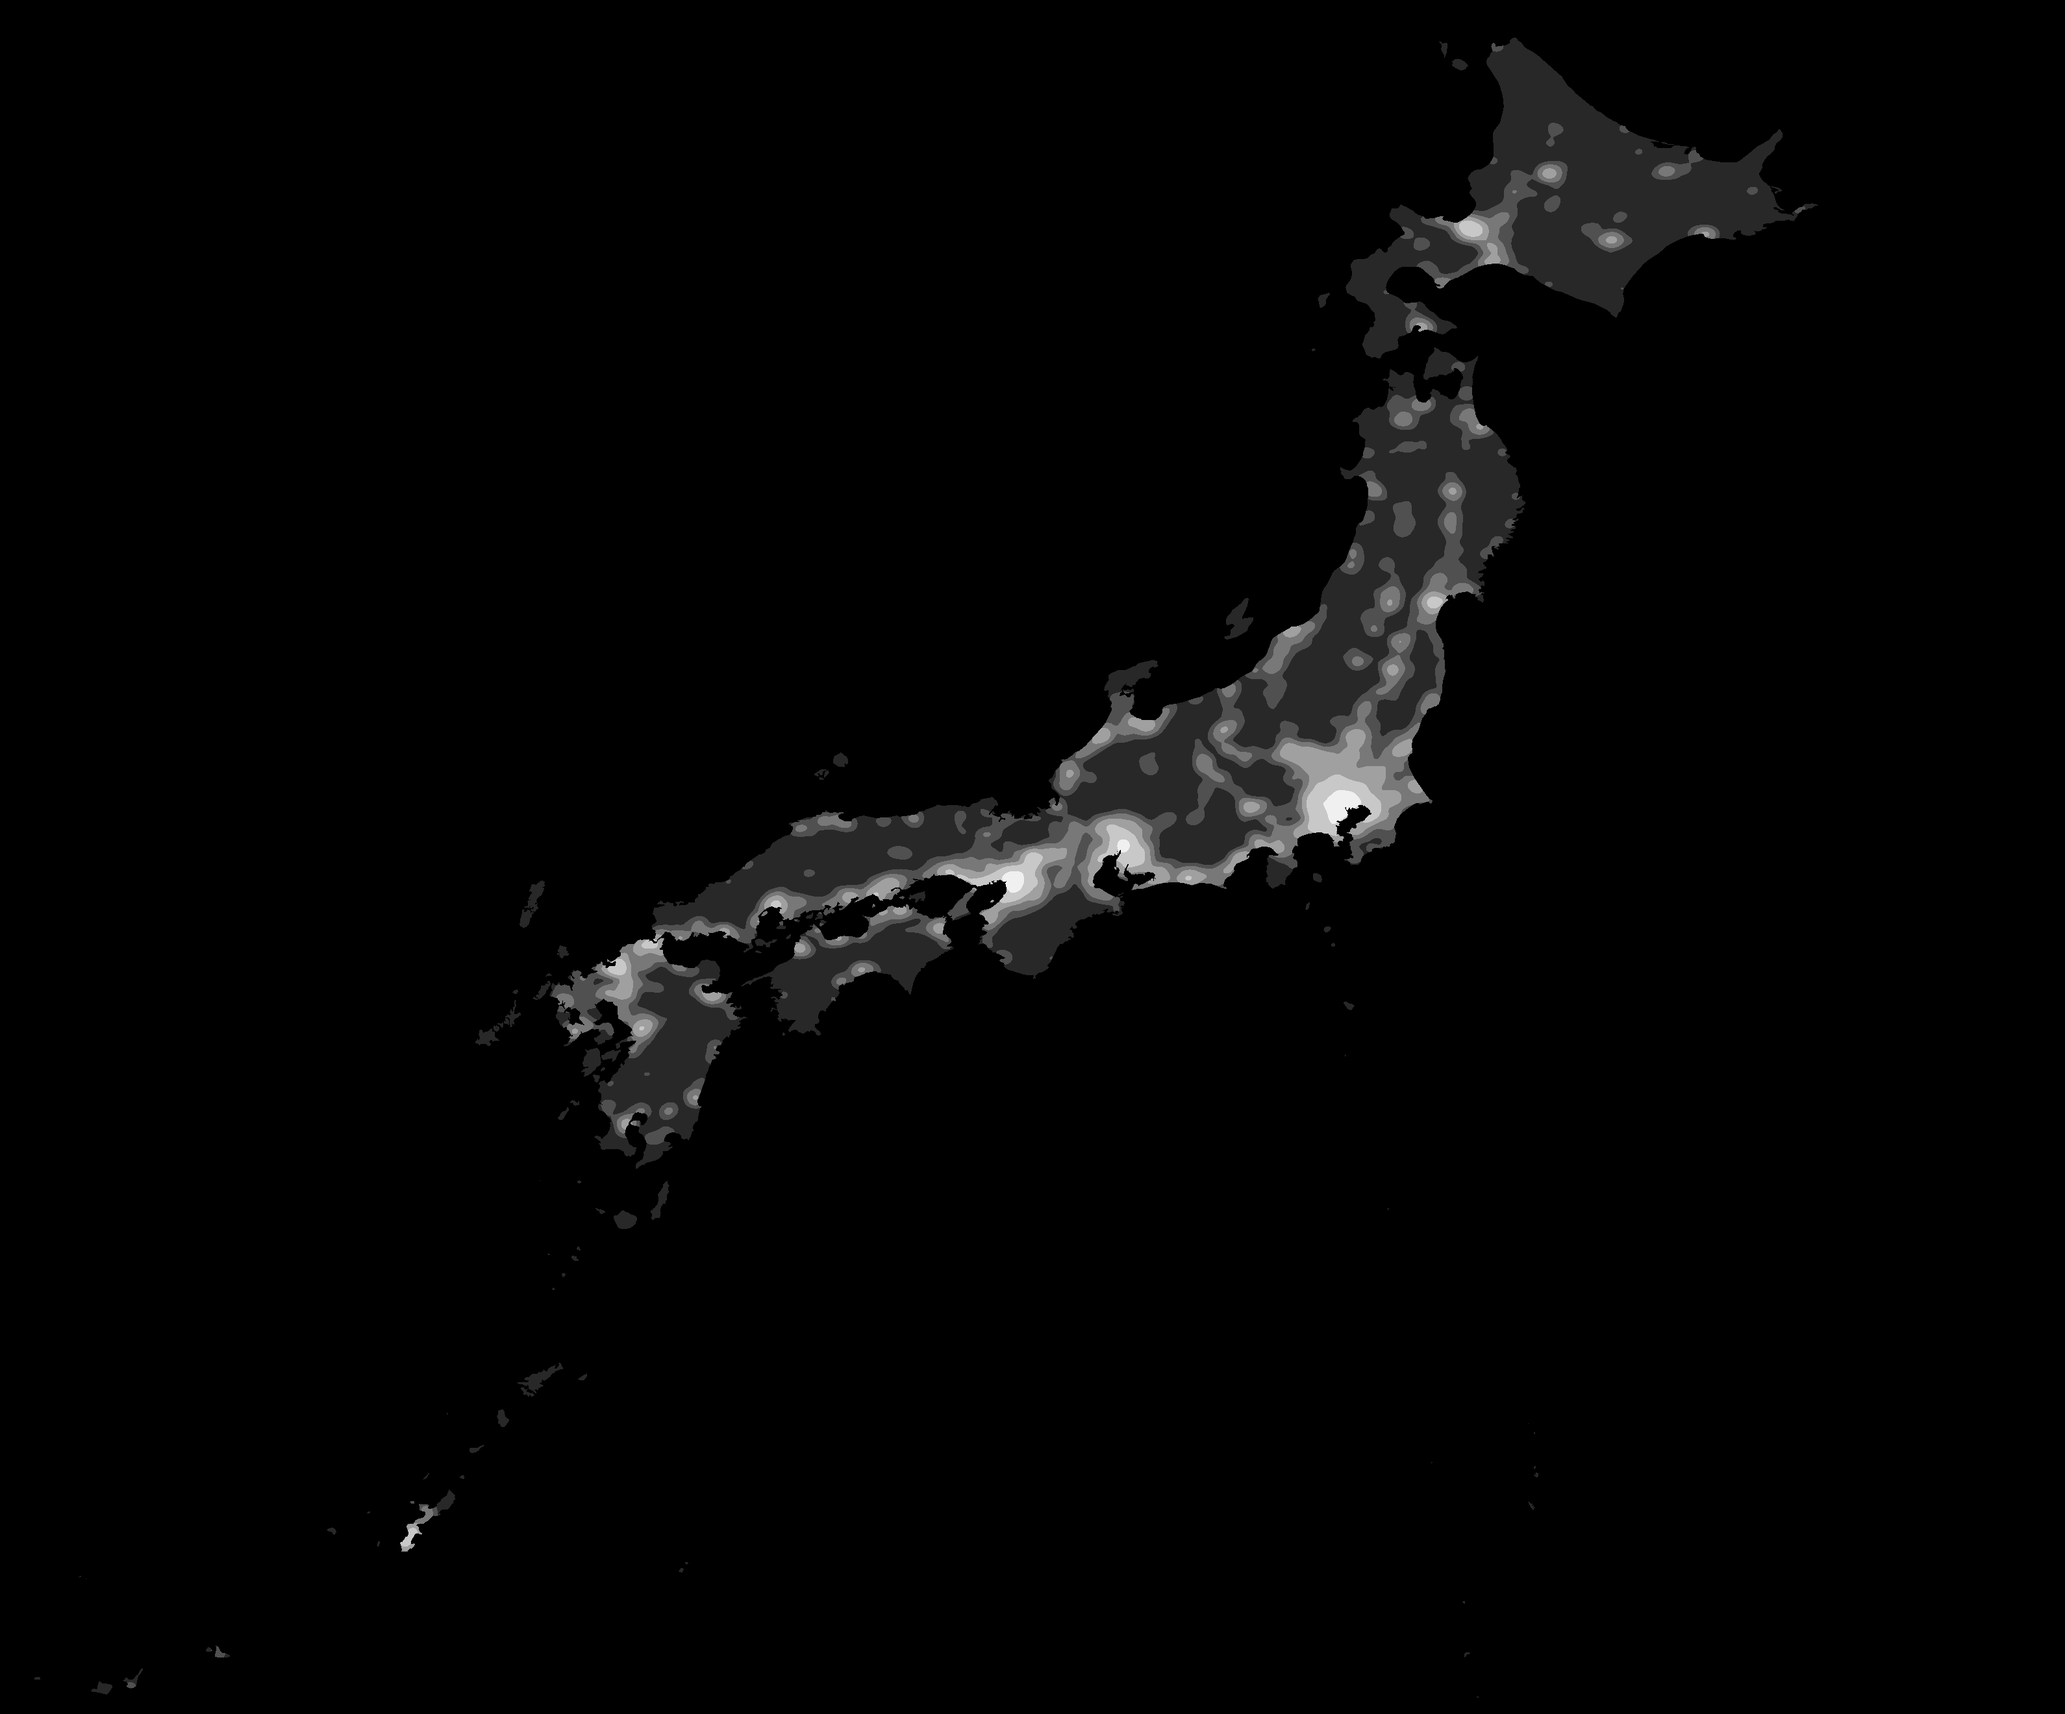
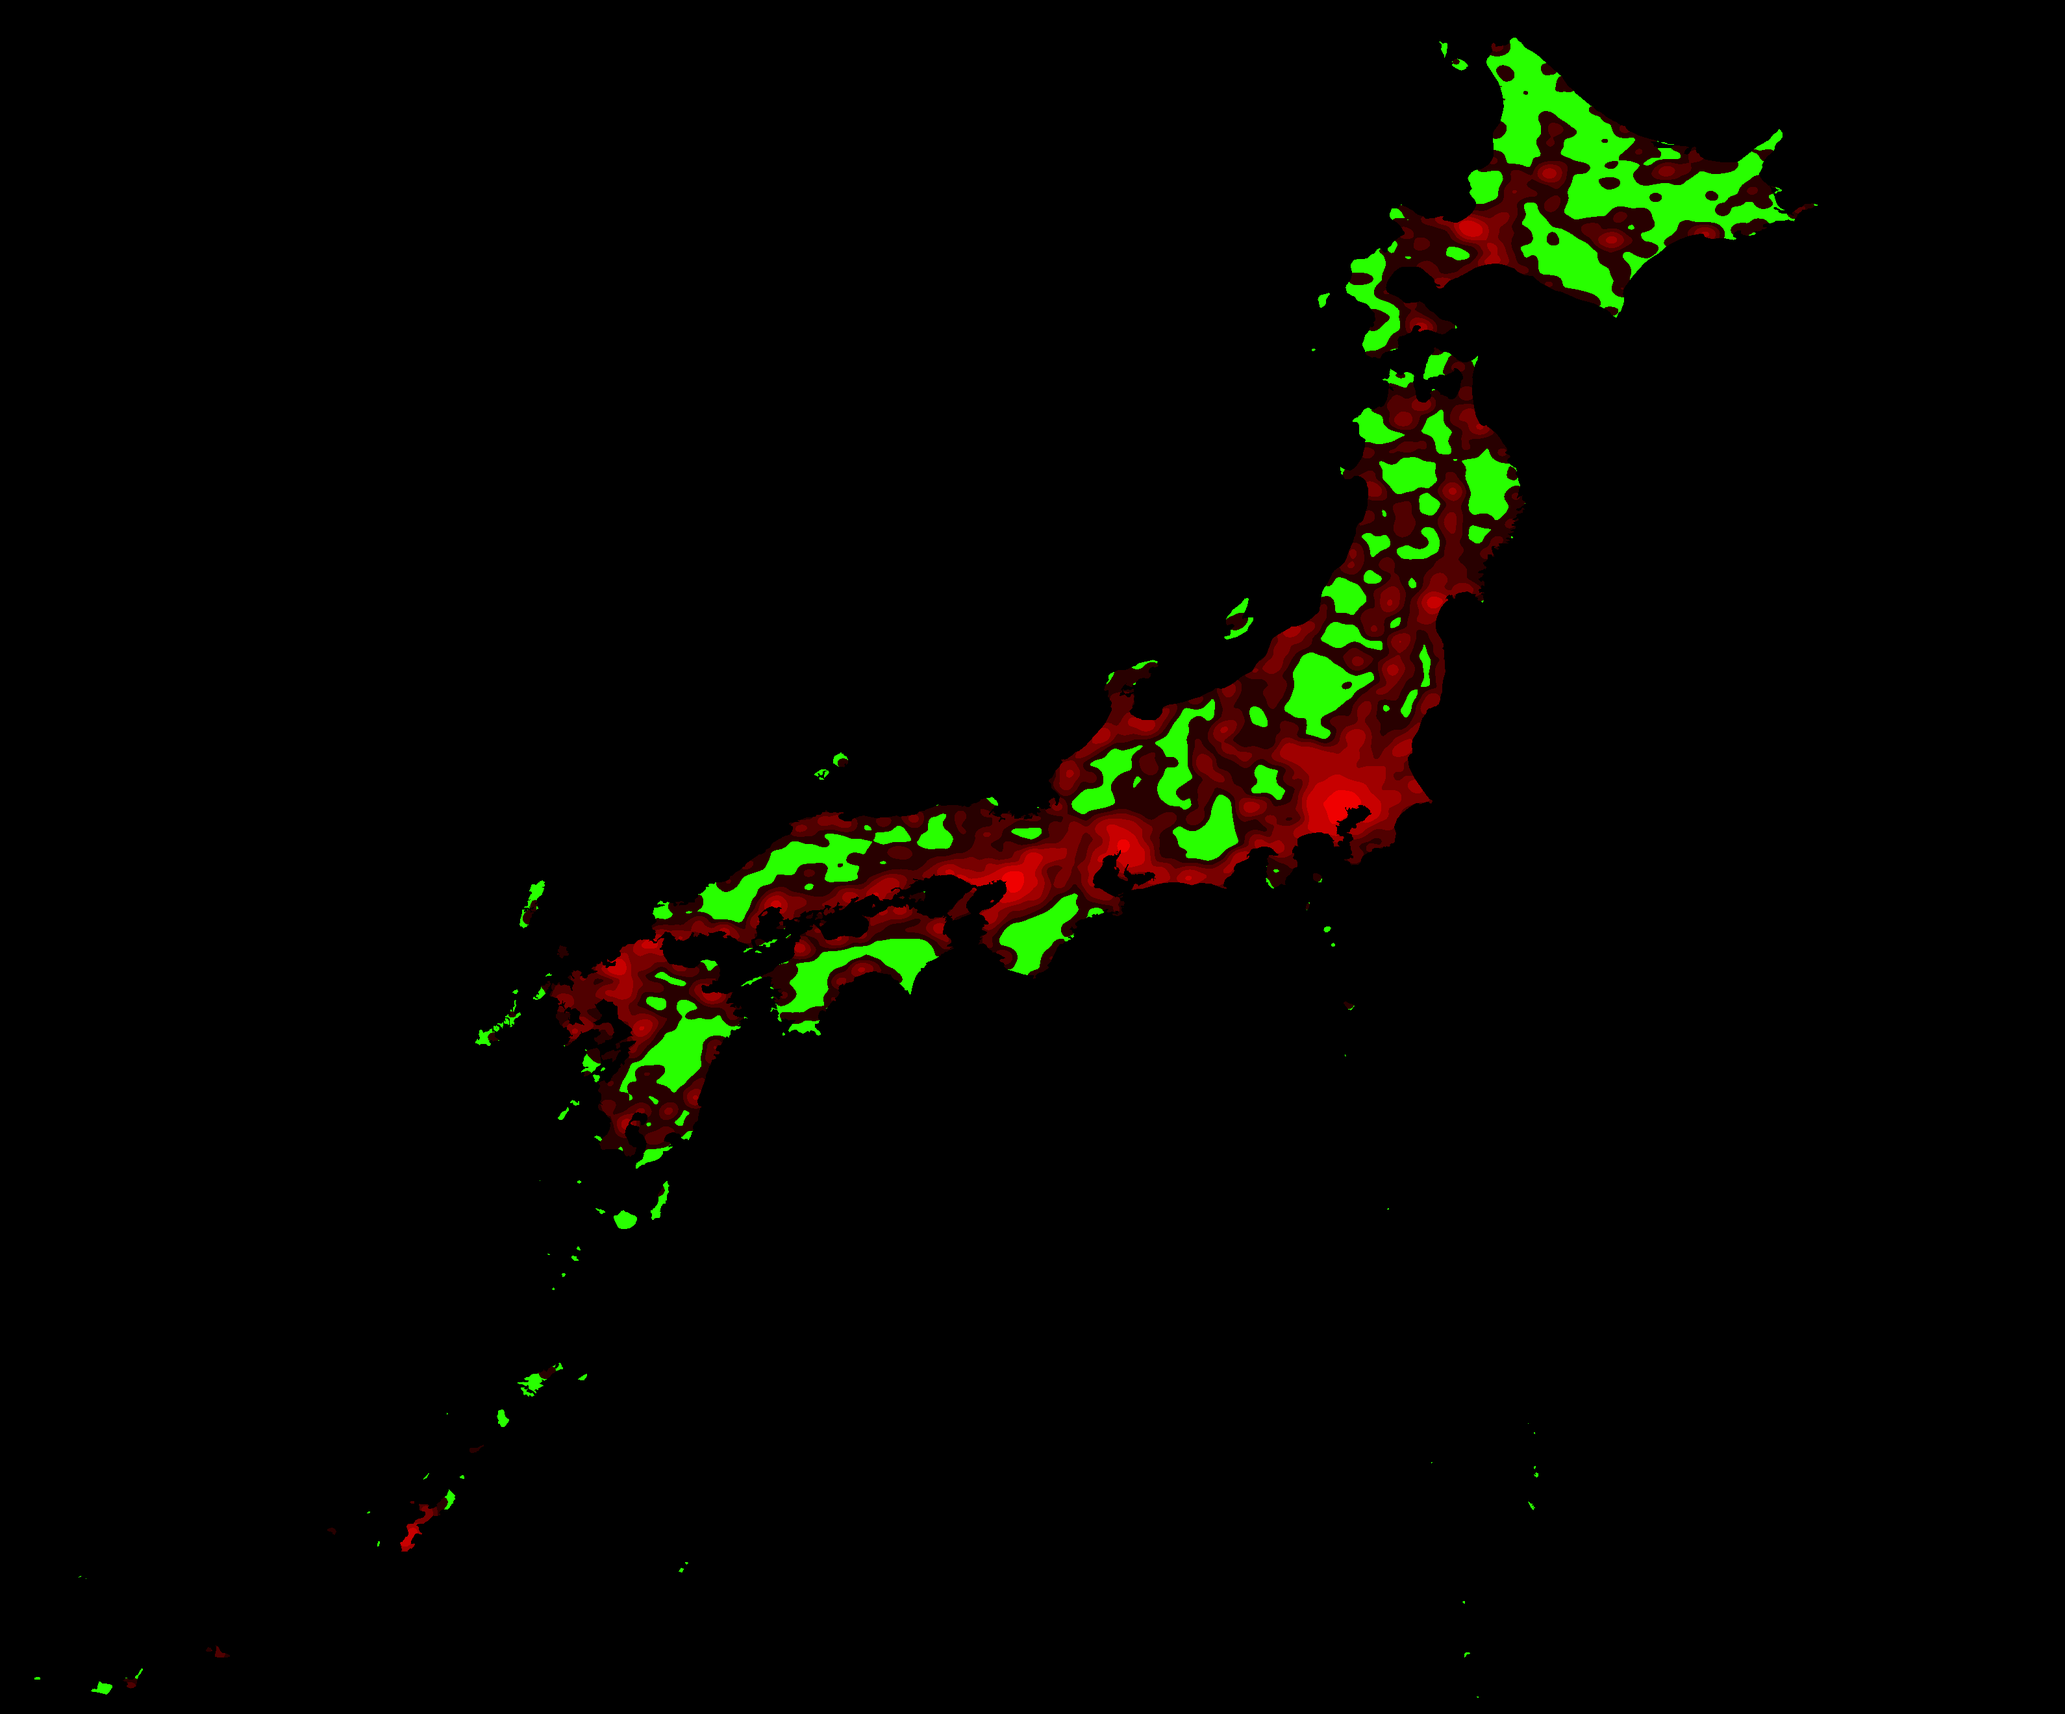
Highlight the least-lit areas and let legend classes be highlighted

Changed region(s): [[0.2179, 0.0, 0.8717, 0.6833], [0.1868, 0.8697, 0.2179, 0.9008]]

diff --git a/site/app.js b/site/app.js
@@ -7,6 +7,10 @@
       lead: "Japan drawn only with stars. The darker the night around a place, the more stars it gets; bright cities become empty patches. Turn off the borders and names to see the coast and the cities emerge from the density of stars alone.",
       overlay: "Cities, coastline and prefecture borders",
       twinkle: "Twinkle",
+      highlight: "Highlight where stars are easiest to see",
+      highlightLeast: (p) => `Places with almost no night light: about ${p}% of Japan's land. Click a class in the legend to highlight it instead.`,
+      highlightClass: (c, p) => `Highlighting class ${c} (${p}% of Japan's land). Click it again to go back.`,
+      infoLeast: "One of the least-lit places in Japan (highlighted).",
       legendTitle: "Night-sky classes",
       legendHint: "Stars drawn per 10 × 10 km",
       placesTitle: "Places with many stars",
@@ -35,6 +39,10 @@
       lead: "日本を星だけで描きました。夜の明かりが少ない場所ほど星を多く、明るい街ほど少なく描いています。境界線と地名を消すと、星の濃淡だけで海岸線と街の位置が浮かび上がります。",
       overlay: "都市名・海岸線・都道府県境",
       twinkle: "瞬き",
+      highlight: "星がよく見える場所を強調",
+      highlightLeast: (p) => `夜の明かりがほとんどない場所（日本の陸地の約${p}%）を色付けしています。凡例の段階をクリックすると、その段階を強調します。`,
+      highlightClass: (c, p) => `段階${c}（陸地の${p}%）を強調しています。もう一度クリックすると元に戻ります。`,
+      infoLeast: "日本でも特に夜の明かりが少ない場所です（強調表示の範囲）。",
       legendTitle: "夜空の段階",
       legendHint: "10km四方に描いた星の数",
       placesTitle: "星が多い場所",
@@ -177,6 +185,7 @@
     ctx.drawImage(im, 0, 0);
     lookup = { data: ctx.getImageData(0, 0, im.width, im.height).data, w: im.width, h: im.height };
     render();
+    if (map.isStyleLoaded()) drawHighlight(); else map.once("load", drawHighlight);
   });
 
   function classAt(lng, lat) {
@@ -186,6 +195,76 @@
     const y = Math.floor((b.north - lat) * meta.lookup_px_per_deg);
     if (x < 0 || y < 0 || x >= lookup.w || y >= lookup.h) return 0;
     return Math.round(lookup.data[(y * lookup.w + x) * 4] / meta.lookup_scale);
+  }
+  function leastAt(lng, lat) {
+    const b = meta.bbox;
+    const x = Math.floor((lng - b.west) * meta.lookup_px_per_deg);
+    const y = Math.floor((b.north - lat) * meta.lookup_px_per_deg);
+    if (x < 0 || y < 0 || x >= lookup.w || y >= lookup.h) return false;
+    return lookup.data[(y * lookup.w + x) * 4 + 1] > 127;
+  }
+
+  // highlight layer: lookup grid reprojected to Web Mercator on a canvas
+  let hlTarget = "least"; // "least" or a class id
+  const hlCanvas = document.createElement("canvas");
+  const mercY = (lat) => Math.log(Math.tan(Math.PI / 4 + (lat * Math.PI) / 360));
+  function drawHighlight() {
+    if (!lookup) return;
+    const b = meta.bbox;
+    const w = lookup.w;
+    const y0 = mercY(b.north), y1 = mercY(b.south);
+    const h = Math.round((w * (y0 - y1)) / (((b.east - b.west) * Math.PI) / 180));
+    const mask = document.createElement("canvas");
+    mask.width = w; mask.height = h;
+    const mctx = mask.getContext("2d");
+    const img = mctx.createImageData(w, h);
+    const d = lookup.data;
+    for (let r = 0; r < h; r++) {
+      const my = y0 - ((r + 0.5) / h) * (y0 - y1);
+      const lat = (2 * Math.atan(Math.exp(my)) - Math.PI / 2) * 180 / Math.PI;
+      const sr = Math.min(lookup.h - 1, Math.max(0, Math.floor((b.north - lat) * meta.lookup_px_per_deg)));
+      for (let c = 0; c < w; c++) {
+        const i = (sr * w + c) * 4;
+        const on = hlTarget === "least" ? d[i + 1] > 127 : Math.round(d[i] / meta.lookup_scale) === hlTarget;
+        if (on) {
+          const o = (r * w + c) * 4;
+          img.data[o] = 94; img.data[o + 1] = 230; img.data[o + 2] = 200; img.data[o + 3] = 255;
+        }
+      }
+    }
+    mctx.putImageData(img, 0, 0);
+    hlCanvas.width = w; hlCanvas.height = h;
+    const ctx = hlCanvas.getContext("2d");
+    ctx.clearRect(0, 0, w, h);
+    ctx.filter = "blur(2px)";
+    ctx.drawImage(mask, 0, 0);
+    ctx.filter = "none";
+    const coords = [[b.west, b.north], [b.east, b.north], [b.east, b.south], [b.west, b.south]];
+    const src = map.getSource("highlight");
+    if (!src) {
+      map.addSource("highlight", { type: "canvas", canvas: hlCanvas, coordinates: coords, animate: false });
+      map.addLayer({ id: "highlight", type: "raster", source: "highlight",
+        layout: { visibility: document.getElementById("highlight").checked ? "visible" : "none" },
+        paint: { "raster-opacity": 0.26, "raster-fade-duration": 0 } }, "twinkle-0");
+    } else {
+      src.play(); src.pause(); // redraw the canvas once
+    }
+  }
+  function setHighlight(on) {
+    if (map.getLayer("highlight")) map.setLayoutProperty("highlight", "visibility", on ? "visible" : "none");
+    renderHighlightNote();
+  }
+  function renderHighlightNote() {
+    const note = document.getElementById("highlight-note");
+    const on = document.getElementById("highlight").checked;
+    note.hidden = !on || !meta;
+    if (!on || !meta) return;
+    const t = T[lang];
+    note.textContent = hlTarget === "least"
+      ? t.highlightLeast(Math.round(meta.least_light.share * 100))
+      : t.highlightClass(hlTarget, (meta.stats[hlTarget - 1].share * 100).toFixed(1));
+    document.querySelectorAll("#legend li[data-class]").forEach((li) =>
+      li.classList.toggle("active", Number(li.dataset.class) === hlTarget));
   }
 
   function showInfo(lng, lat) {
@@ -203,6 +282,7 @@
       body.innerHTML = `<h3>${t.infoClass(c)} · ${t.classes[c - 1]}</h3>
         <p><span class="big">≈ ${fmt(n)}</span> ${t.infoDrawn}</p>
         <p>${t.infoBortle(k.bortle.replace("-", "–"), k.visible_range.replace("-", "–"))}</p>
+        ${leastAt(lng, lat) ? `<p class="least">${t.infoLeast}</p>` : ""}
         <p class="muted">${t.infoNote}</p>
         <p class="muted">${coord}</p>`;
     }
@@ -245,6 +325,17 @@
     if (meta) {
       meta.classes.forEach((k, i) => {
         const li = document.createElement("li");
+        li.dataset.class = k.id;
+        li.tabIndex = 0;
+        li.setAttribute("role", "button");
+        const pick = () => {
+          hlTarget = hlTarget === k.id ? "least" : k.id;
+          document.getElementById("highlight").checked = true;
+          drawHighlight();
+          setHighlight(true);
+        };
+        li.addEventListener("click", pick);
+        li.addEventListener("keydown", (e) => { if (e.key === "Enter" || e.key === " ") { e.preventDefault(); pick(); } });
         const cv = document.createElement("canvas");
         drawSwatch(cv, k.visible / 1000 * 4);
         const name = document.createElement("span");
@@ -259,6 +350,7 @@
       hint.innerHTML = `<span class="hint">${t.legendHint}</span>`;
       legend.append(hint);
     }
+    renderHighlightNote();
 
     const ul = document.getElementById("places");
     ul.innerHTML = "";
@@ -306,6 +398,7 @@
     render();
   }));
   document.getElementById("overlay").addEventListener("change", (e) => setOverlay(e.target.checked));
+  document.getElementById("highlight").addEventListener("change", (e) => setHighlight(e.target.checked));
   map.on("load", () => setOverlay(document.getElementById("overlay").checked));
 
   // twinkling: three groups of bright stars pulse out of step

diff --git a/site/style.css b/site/style.css
@@ -32,6 +32,13 @@ html[lang="ja"] h2 { text-transform: none; letter-spacing: .02em; }
   line-height: 1; cursor: pointer; flex: none; }
 
 #legend { list-style: none; margin: 0; padding: 0; }
+#legend li[data-class] { cursor: pointer; border-radius: 6px; margin: 0 -6px; padding: 3px 6px; }
+#legend li[data-class]:hover { background: rgba(255,255,255,.06); }
+#legend li.active { background: rgba(94,230,200,.16); box-shadow: inset 2px 0 0 #5ee6c8; }
+.toggle.hl span { color: #8ff0da; }
+.toggle.hl input { accent-color: #5ee6c8; }
+.note { margin: 6px 0 0; font-size: 12px; color: #a9e9dc; }
+#info .least { color: #8ff0da; }
 #legend li { display: grid; grid-template-columns: 54px 1fr auto; gap: 8px; align-items: center; padding: 3px 0; font-size: 13px; }
 #legend canvas { width: 54px; height: 16px; border-radius: 3px; background: #000; border: 1px solid var(--line); }
 #legend .n { color: var(--muted); font-variant-numeric: tabular-nums; font-size: 12px; }

diff --git a/site/index.html b/site/index.html
@@ -32,7 +32,9 @@
       </div>
       <label class="toggle"><input type="checkbox" id="twinkle"> <span data-i18n="twinkle"></span></label>
       <label class="toggle"><input type="checkbox" id="overlay" checked> <span data-i18n="overlay"></span></label>
+      <label class="toggle hl"><input type="checkbox" id="highlight" checked> <span data-i18n="highlight"></span></label>
     </div>
+    <p id="highlight-note" class="note" hidden></p>
 
     <h2 data-i18n="legendTitle"></h2>
     <ol id="legend"></ol>

diff --git a/scripts/make_classes.py b/scripts/make_classes.py
@@ -4,6 +4,7 @@ Outputs
   data/processed/sky_class.png   uint8 grid, 15", 0 = not Japan land, 1-6 = class
   data/processed/meta.json       grid, thresholds, statistics
   site/data/sky_class.png        1/2 resolution lookup image for the web page
+                                 (R = class * 40, G = 255 where the sky is least lit)
   site/data/coastline.geojson    Japan outline (Natural Earth)
   site/data/prefectures.geojson  prefecture boundaries (Natural Earth)
   site/data/cities.geojson       main cities (Natural Earth)
@@ -112,7 +113,11 @@ def main():
     Image.fromarray(cls).save(OUT / "sky_class.png", optimize=True)
 
     # web lookup (every 2nd pixel, value*40 so it survives any 8-bit handling)
-    Image.fromarray((cls[::2, ::2] * 40).astype(np.uint8)).save(SITE / "sky_class.png", optimize=True)
+    least = (sky < C.LEAST_LIGHT_RAD) & land
+    rgb = np.zeros((h, w, 3), np.uint8)
+    rgb[..., 0] = cls * 40
+    rgb[..., 1] = least * 255
+    Image.fromarray(rgb[::2, ::2]).save(SITE / "sky_class.png", optimize=True)
 
     lat_c = C.BBOX["north"] - (np.arange(h) + 0.5) / C.PX_PER_DEG
     cell_km2 = (KM_PER_PX_LAT ** 2) * np.cos(np.radians(lat_c))[:, None] * np.ones((1, w))
@@ -155,7 +160,11 @@ def main():
                                  for p in (5, 25, 50, 75, 90, 95, 99)},
                 prefectures=prefs)
     (OUT / "meta.json").write_text(json.dumps(meta, ensure_ascii=False, indent=1))
+    least_share = round(float(cell_km2[least].sum() / total), 4)
+    meta["least_light"] = dict(max_rad=C.LEAST_LIGHT_RAD, share=least_share)
+    (OUT / "meta.json").write_text(json.dumps(meta, ensure_ascii=False, indent=1))
     site_meta = dict(year=C.YEAR, bbox=C.BBOX, lookup_px_per_deg=C.PX_PER_DEG / 2,
+                     least_light=meta["least_light"],
                      lookup_scale=40, classes=meta["classes"], stats=stats,
                      stars_per_km2_per_visible=C.STARS_PER_KM2_PER_VISIBLE)
     (SITE / "meta.json").write_text(json.dumps(site_meta, ensure_ascii=False, indent=1))

diff --git a/scripts/config.py b/scripts/config.py
@@ -25,6 +25,8 @@ CLASSES = [
     dict(id=6, max_rad=float("inf"), bortle="8-9", visible=30, visible_range="20-50"),
 ]
 STARS_PER_KM2_PER_VISIBLE = 1 / 1000
+# "Least light" highlight on the page: blurred radiance below this value
+LEAST_LIGHT_RAD = 0.1
 
 TILE_ZOOMS = range(3, 11)  # z3-z10
 TILE_PX = 512  # served as 256 CSS px tiles (sharp on high-DPI screens)

diff --git a/README.md b/README.md
@@ -17,6 +17,7 @@ Japan drawn only with stars. The darker the night around a place, the more stars
 - 英語表記が標準で、日本語に切り替えられます（`?lang=ja` でも開けます）。
 - 明るい星の一部が瞬きます（「Twinkle / 瞬き」で止められます。動きを減らす設定の端末では最初から止まっています）。
 - 主な都市名、海岸線、都道府県境を重ねて表示します（最初から表示。「Cities, coastline and prefecture borders / 都市名・海岸線・都道府県境」で消せます）。都市名はズームに合わせて数を増やします。
+- 星がよく見える場所を色付けして強調します（最初から表示）。標準では、ぼかした夜間光が 0.1 nW/cm²/sr 未満の場所（日本の陸地の約30%）を強調します。凡例の段階をクリックすると、その段階だけを強調します。
 - 地図をクリックすると、その地点の段階と、描いた星の数の目安（10km四方あたり）を表示します。
 - 陸別町（十勝）、阿智村、美星町、屋久島、西表島・石垣島の5か所を紹介しています。
 - スマートフォンでは、説明パネルが画面下にたためる形で表示されます。
